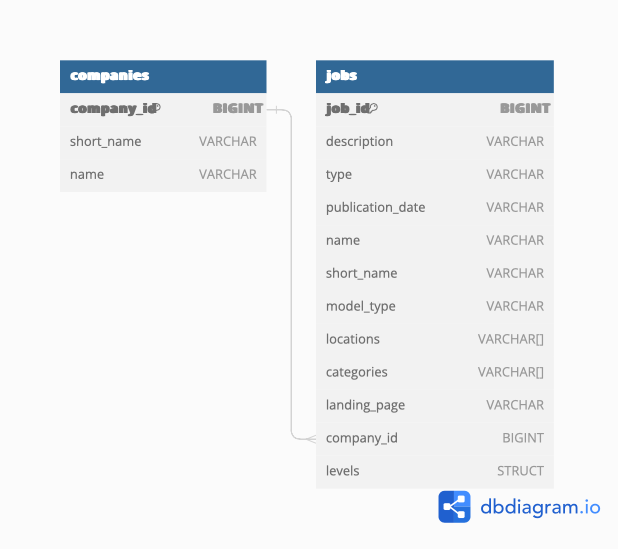
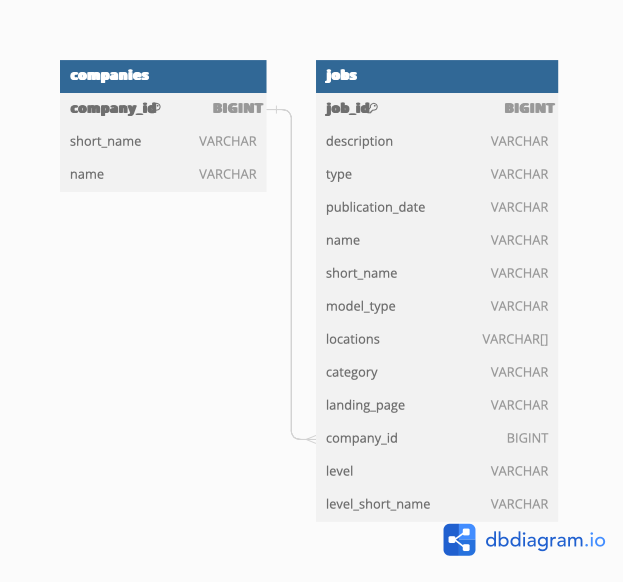
minor field cleanup

Changed region(s): [[0.4919, 0.0929, 0.9838, 0.9599], [0.0922, 0.0929, 0.4612, 0.3406], [0.4612, 0.2168, 0.4919, 0.7741]]

diff --git a/load_data.py b/load_data.py
@@ -41,6 +41,12 @@ def test_expected_response(field_name, job_id, data):
                 f"Job ID {job_id} has more than the expected number of values in the `levels` field"
             )
 
+    elif field_name == "categories":
+        if len(data) > 1:
+            warnings.warn(
+                f"Job ID {job_id} has more than the expected number of values in the `categories` field"
+            )
+
 
 def query_api(num_pages_to_query=None):
     # With more time, I'd want to work on breaking this function into some smaller parts
@@ -84,7 +90,6 @@ def query_api(num_pages_to_query=None):
         for result in results:
             location_list = []
             is_remote_eligible = False
-            category_list = []
 
             for location in result["locations"]:
                 # Pop `Flexible / Remote` from the list of locations and set as a bool
@@ -92,9 +97,6 @@ def query_api(num_pages_to_query=None):
                     is_remote_eligible = True
                     continue
                 location_list.append(location["name"])
-
-            for category in result["categories"]:
-                category_list.append(category["name"])
 
             company_object = {
                 "company_id": result["company"]["id"],
@@ -108,6 +110,7 @@ def query_api(num_pages_to_query=None):
             # and `levels` fields added tests to insure assumptions hold
             test_expected_response("refs", job_id, result["refs"])
             test_expected_response("levels", job_id, result["levels"])
+            test_expected_response("categories", job_id, result["categories"])
 
             job_object = {
                 "job_id": job_id,
@@ -119,10 +122,13 @@ def query_api(num_pages_to_query=None):
                 "model_type": result["model_type"],
                 "locations": location_list,
                 "is_remote_eligible": is_remote_eligible,
-                "categories": category_list,
+                "category": result["categories"][0].get("name")
+                if result["categories"]
+                else None,
                 "landing_page": result["refs"]["landing_page"],
                 "company_id": company_object["company_id"],
-                "levels": result["levels"][0],
+                "level": result["levels"][0].get("name"),
+                "level_short_name": result["levels"][0].get("short_name"),
             }
 
             jobs_list.append(job_object)
@@ -165,7 +171,7 @@ if __name__ == "__main__":
         help="""The number of pages to query from the API. If omitted, the script 
                 will continue to query until all available pages are exhausted. Note, 
                 the script will always start with page 0""",
-        default=float('inf'),
+        default=float("inf"),
     )
 
     pages_to_load = parser.parse_args().pages
